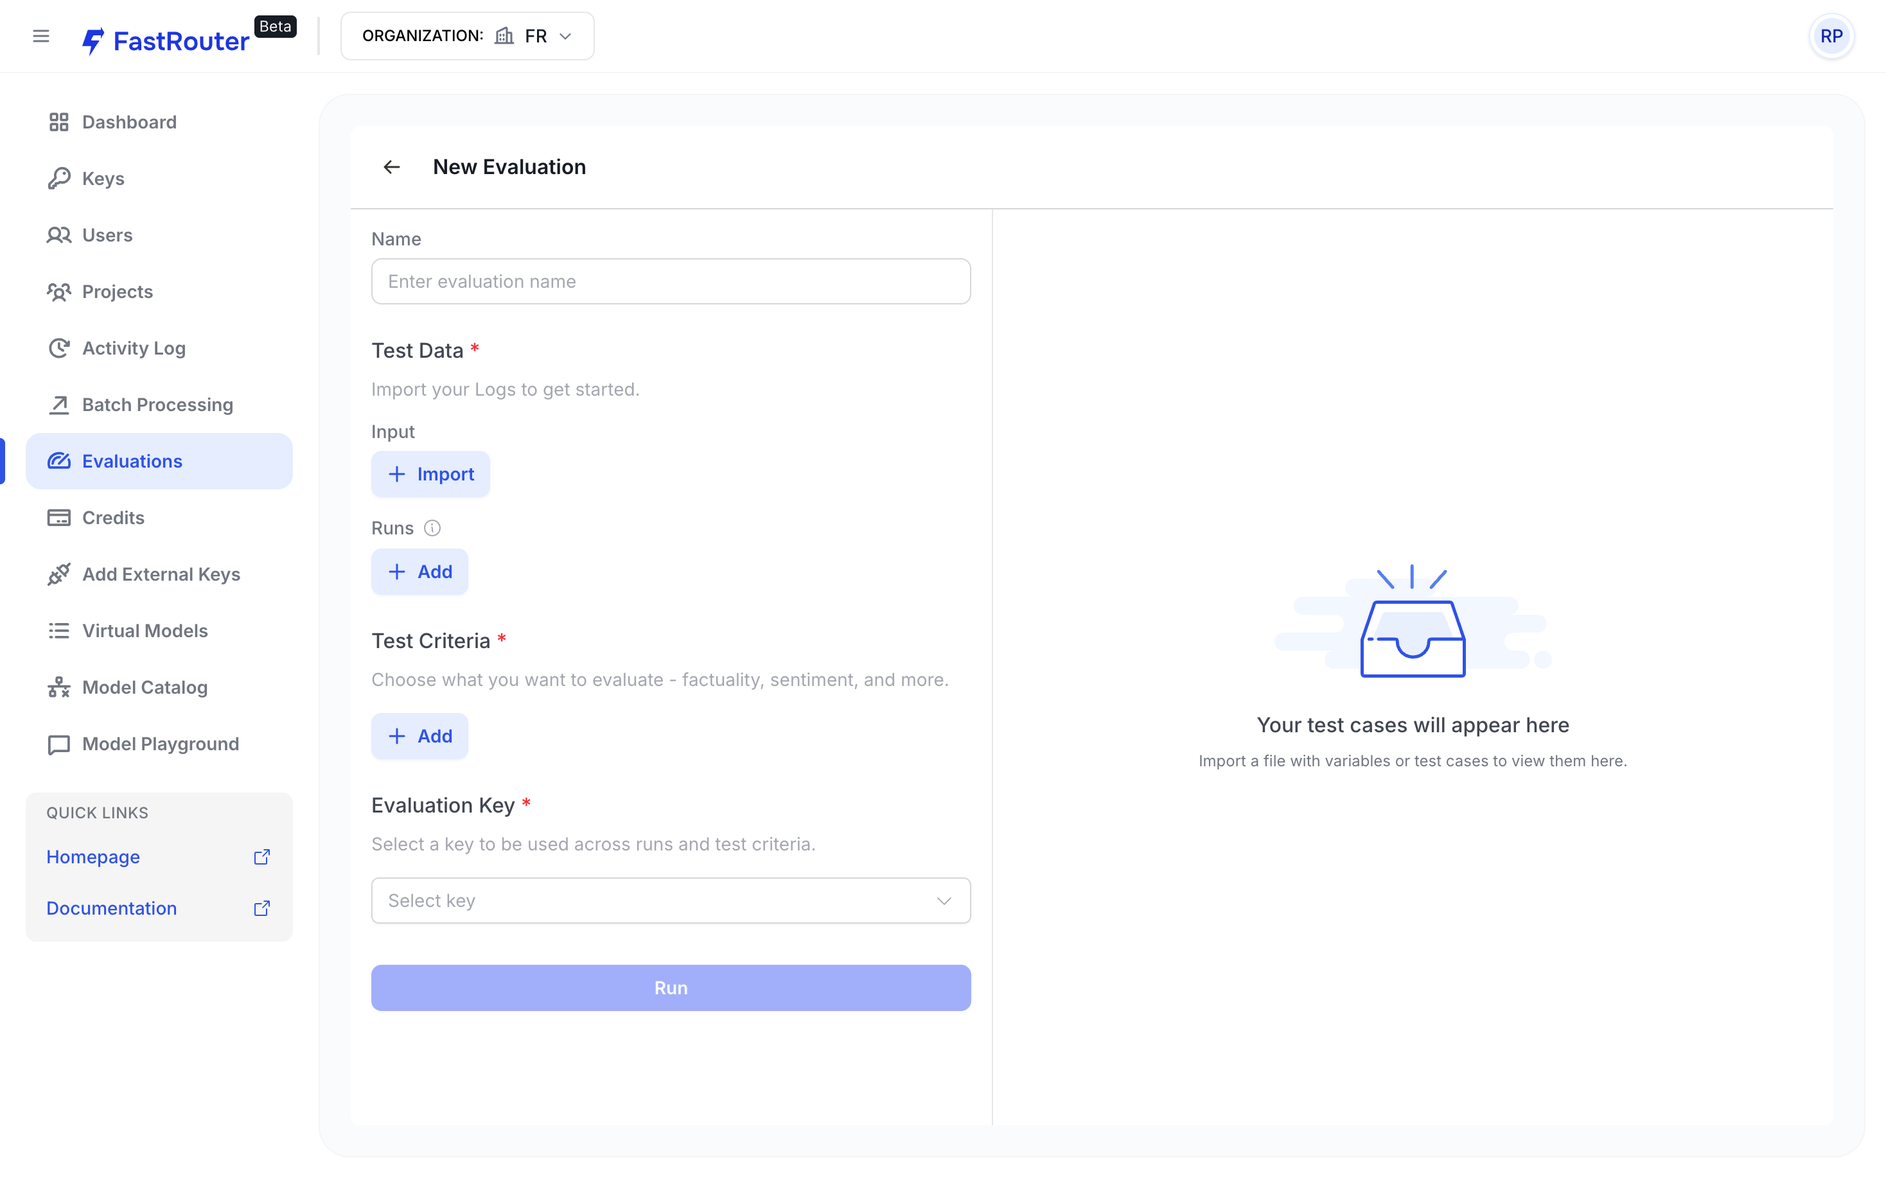
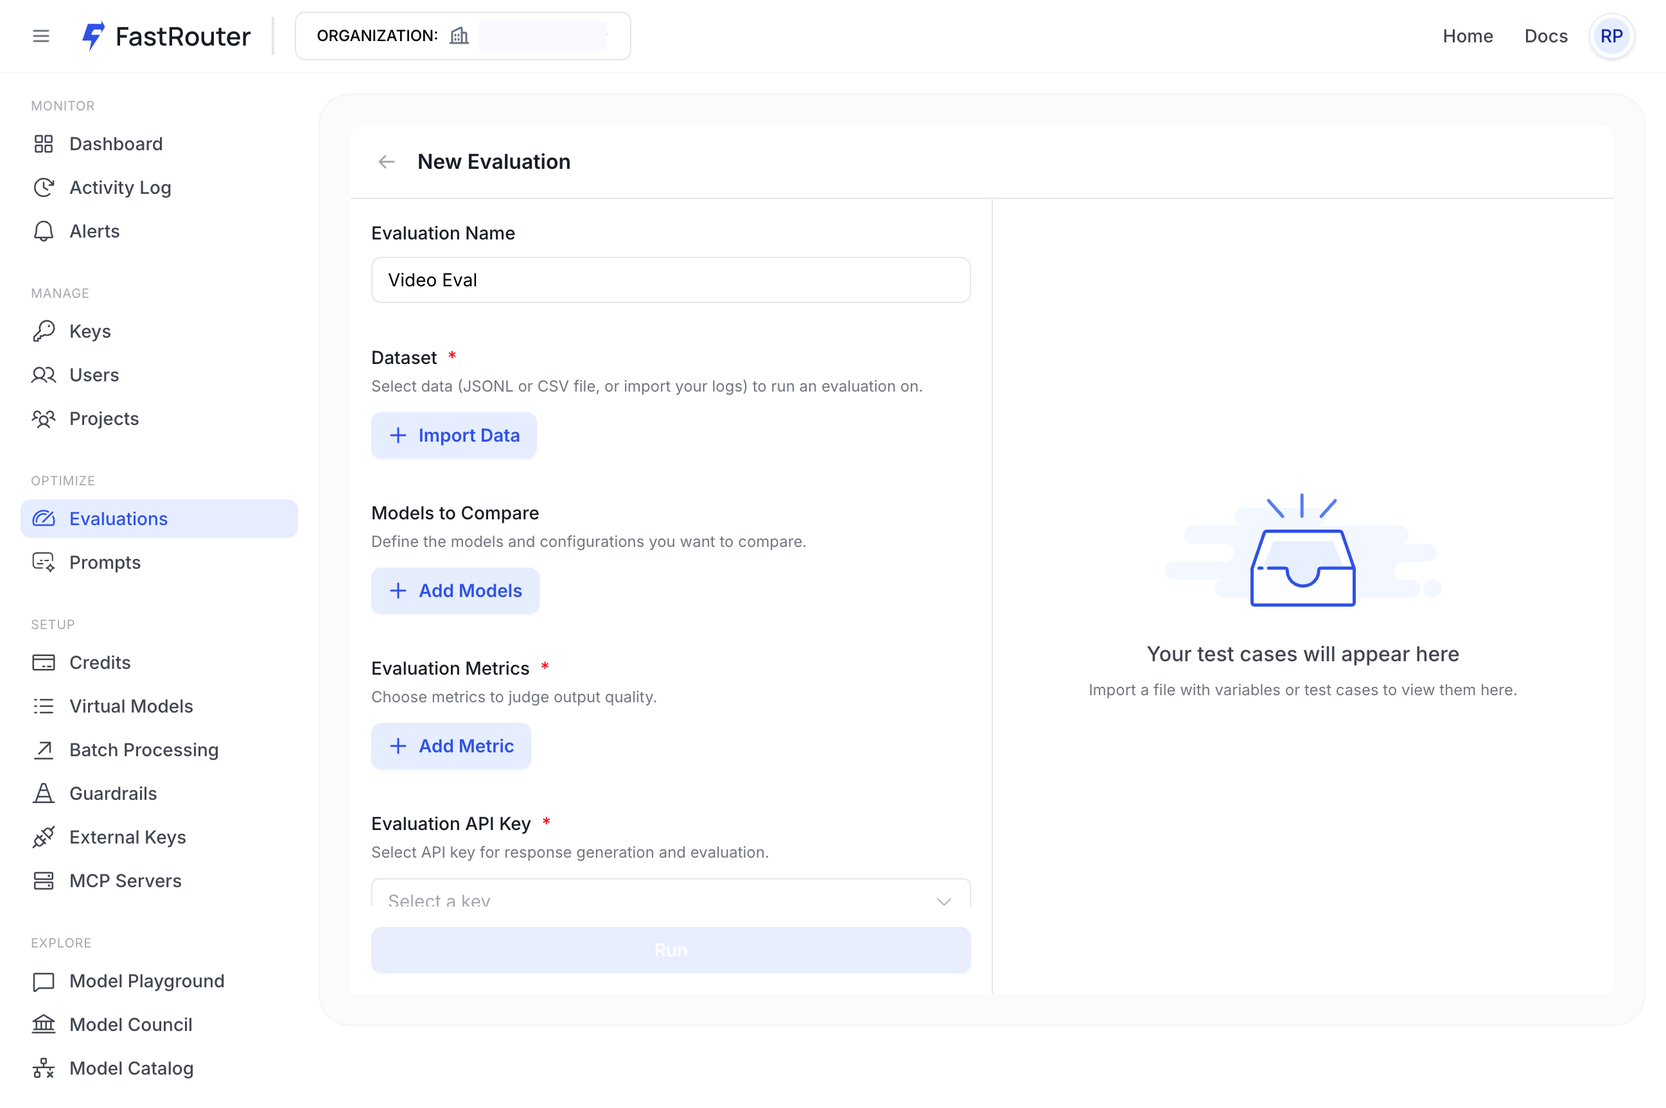
GITBOOK-279: No subject

diff --git a/explore-features/video-evaluations.md b/explore-features/video-evaluations.md
@@ -7,131 +7,186 @@ icon: video
 
 # Video Evaluations
 
-#### Introduction
+## **Introduction**
 
-FastRouter's Video Evaluations feature lets you assess the quality of AI-generated videos at scale. By importing video generation logs, defining LLM-based judging criteria, and running evaluations against those outputs, you can systematically measure video quality across dimensions like motion fidelity, audio-visual sync, cinematic quality, and adherence to the original prompt.
+FastRouter's Video Evaluations feature lets you assess the quality of AI-generated videos at scale. By importing video generation logs, defining LLM-based judging criteria, and running evaluations against those outputs, you can systematically measure video quality across dimensions like visual fidelity, scene flow, on-screen text accuracy, audio-visual sync, and adherence to the original prompt.
 
-Video Evals work within the same Custom Evaluations infrastructure as text and image evals — the same judge configuration, the same scoring rubrics, and the same results dashboard — extended to support multimodal video output.
-
-***
-
-#### Key Benefits
-
-* Evaluate AI-generated video outputs automatically using an LLM judge.
-* Import video generation logs directly from your FastRouter activity — no manual uploads required.
-* Use the same custom criteria and Auto Grader setup as text evaluations.
-* Drill down into per-video judge reasoning to understand exactly what scored well or poorly.
+Video Evals work within the same Custom Evaluations infrastructure as text and image evals; the same judge configuration, the same scoring rubrics, and the same results dashboard extended to support multimodal video output.
 
 ***
 
-#### Creating a Video Evaluation
+## **Key Benefits**
+
+* Evaluate AI-generated video outputs automatically using a multimodal LLM judge.
+* Import video generation logs directly from your FastRouter activity.
+* Use the same Auto grader and Custom grader setup as text and image evaluations.
+* Catch failures that are hard to spot at a glance: a duplicated logo, a typo in the final frame, a scene that skips a beat with per-dimension judge reasoning for every video.
+
+***
+
+## **Before You Start**
+
+Video evals run against videos you have already generated through FastRouter. You can generate them via the API, or interactively from **Model Playground** by switching to the **Video** tab and selecting a video model (e.g. `x-ai/grok-imagine-video-1.5`).
+
+<figure><img src="../.gitbook/assets/Video Playground.png" alt=""><figcaption><p>Generating a video in Model Playground</p></figcaption></figure>
+
+Video prompts are usually long and structured. The example used throughout this page:
+
+```
+Create a 8-second luxury jewelry ad for Star Diamonds, promoting a new diamond earring range.
+Elegant, cinematic, premium aesthetic with black velvet, soft champagne-gold lighting, sparkling
+highlights, and smooth transitions. Photorealistic diamonds, accurate earring symmetry, crisp
+product details, refined typography, no distorted faces or jewelry.
+
+0–2 sec: Macro shot of diamond earrings emerging from darkness, slowly rotating as light catches
+each facet. On-screen copy: "A New Light Has Arrived"
+2–4 sec: Elegant model wearing the earrings, turning her head subtly against a sophisticated
+black-and-gold background. On-screen copy: "Made to Make You Shine"
+4–6 sec: Fast, graceful montage of three distinct designs—classic studs, diamond drops, and
+contemporary hoops—each sparkling in close-up. On-screen copy: "Discover the New Earring Collection"
+6–8 sec: Hero product arrangement on black velvet, followed by the Star Diamonds logo and a soft
+diamond-flare finish. On-screen copy: "Star Diamonds" CTA: "Find Your Perfect Pair"
+
+Audio: Sophisticated cinematic shimmer with a gentle rising beat and a delicate crystal chime on
+the final logo reveal.
+```
+
+Writing the prompt as timed beats pays off twice: the generation model has a clearer target, and you can reuse the same structure as your judge's checklist.
+
+***
+
+## **Creating a Video Evaluation**
 
 Navigate to the **Evaluations** section in your FastRouter dashboard and click **Create Evaluation**.
 
-<figure><img src="../.gitbook/assets/Evaluation Dashboard.png" alt=""><figcaption><p>Custom Evaluations</p></figcaption></figure>
+<figure><img src="../.gitbook/assets/New Evaluation.png" alt=""><figcaption><p>New Evaluation</p></figcaption></figure>
 
 **Step 1 — Name Your Evaluation**
 
-Provide a descriptive name (e.g., `Video Compliance Evaluation` or `Product-Video-Quality-Check-v2`).
-
-<figure><img src="../.gitbook/assets/New Evaluation.png" alt=""><figcaption><p>Name Your Evaluation</p></figcaption></figure>
+Provide a descriptive name (e.g. `Video Eval` or `Jewellery-Ad-Compliance-v2`).
 
 **Step 2 — Import Video Logs**
 
 Click **Import Data**. In the Import Test Data dialog, select the **Videos** tab.
 
-<figure><img src="../.gitbook/assets/Import Test Data - Video.png" alt=""><figcaption></figcaption></figure>
+<figure><img src="../.gitbook/assets/Import Test Data.png" alt=""><figcaption><p>Import Test Data — Videos tab</p></figcaption></figure>
 
 Configure the following fields:
 
 * **Date Range** _(required)_: Select the date range covering the video generations you want to evaluate.
-* **Model** _(required)_: Choose the video generation model whose outputs you want to import (e.g., `google/veo3.1-lite`).
+* **Model** _(required)_: Choose the video generation model whose outputs you want to import (e.g. `x-ai/grok-imagine-video-1.5`).
 * **Project**: Optionally filter by project. Select a project to narrow the available API keys, or leave as "All Projects" to see all keys.
 * **Key**: Optionally filter by a specific API key used during generation.
-* **Input contains**: Search for specific text in the generation input to narrow down which logs are imported.
+* **Input contains**: Search for specific text in the generation prompt to narrow down which logs are imported.
 * **Sampling rate (%)**: Set a percentage of matching logs to import (1–100%). Useful for large log sets — start with a smaller sample to validate your setup before scaling.
 
 > ℹ Video file logs are available for import approximately **2 hours** after they are generated. If your recent video logs aren't showing up, try again later.
 
-Click **Import** to load the video generation logs as your evaluation dataset.
+The dialog shows a live **Total rows** count as you adjust the filters. Click **Import** to load the video generation logs as your evaluation dataset.
+
+Once imported, the dataset appears as **Imported from Video logs**, and the source model is added automatically under **Models to Compare**. The **Data (preview)** panel on the right shows each row's prompt alongside its video output.
+
+<figure><img src="../.gitbook/assets/Sample Overview.png" alt=""><figcaption><p>New Evaluation with imported video logs</p></figcaption></figure>
 
 **Step 3 — Add Evaluation Metrics**
 
-Click **Add Metric** and configure an **Auto Grader** (LLM-based judge) for your video outputs.
+Click **Add Metric** and configure your judge. Two presets are available:
 
-* **Judge Model**: Select a capable multimodal model (e.g., `gemini-3.1-flash-lite-preview`) that can process video as input.
-*   **System Prompt**: Describe the evaluator's role and scoring approach. Example:
+* **Auto grader**: a general-purpose quality judge with a ready-made rubric — good for a quick first pass.
+* **Custom grader**: your own prompt, model, and scoring scale — recommended when you have a specific brief to check the video against.
+
+<figure><img src="../.gitbook/assets/Custom Grader.png" alt=""><figcaption><p>Configuring a Custom grader</p></figcaption></figure>
+
+Configure the following:
+
+* **Model** _(required)_: Select a multimodal model that accepts video input (e.g. `google/gemini-3.1-pro-preview`). A text-only or image-only model cannot score video.
+*   **System**: Describe the evaluator's role, the dimensions to check, and how to score them. The example used here:
 
     ```
-    You are an expert AI response evaluator tasked with assessing model outputs
-    for quality and effectiveness. Evaluate video outputs across three dimensions:
-    1. Major errors, safety concerns, or failure to perform the core task.
-    2. Minor issues such as artifacts, animation inconsistencies, or audio-visual sync problems.
-    3. Suggestions for higher quality animation, better motion dynamics, and tighter sound integration.
+    You are a video evaluator. Watch the video and check if it matches these requirements:
+    1. Visual Quality: Is it a luxury jewelry ad with black velvet, gold lighting, and symmetrical,
+       distortion-free diamonds?
+    2. Scene Flow: Does it progress smoothly from a macro shot, to a model, to a product montage,
+       and end on a hero product layout?
+    3. Text & Typo Check: Read all on-screen text. Check for any typos, spelling mistakes, or
+       grammatically incorrect copy.
+    Score from 1 - 7. Give an overall fail score of 2 or below if any of the requirements fails to
+    meet the standard.
     ```
-* **Scoring**: Define a numeric scale (e.g., 0–10) or pass/fail threshold. The judge will return both a score and structured reasoning per dimension.
-* **Variables**: Reference the video output in your judge prompt using `{{sample.output}}`. Use `{{item.input}}` to pass the original generation prompt to the judge for context.
+* **Variables**: Use `{{curly braces}}` to interpolate values into your prompt. `{{item.input}}` passes the original generation prompt to the judge, which is what you need for prompt-adherence checks. The generated video itself is attached to the judge call automatically. The valid variable list is shown under each prompt box.
+* **User** _(required)_: The user-turn template sent to the judge, typically the user input placeholder followed by the response to evaluate.
+* **Scoring**: Define the numeric **Range** (e.g. `0–7`) and a **Pass Threshold** (e.g. `3.5`). Rows scoring at or above the threshold are marked Pass; everything below is Fail.
 
 **Step 4 — Select Evaluation API Key**
 
-Choose an API key from your account. This key will be used for all LLM judge calls during the evaluation.
+Choose an API key from your account. This key is used for all LLM judge calls during the evaluation.
 
-**Step 4 — Run**
+**Step 5 — Run**
 
-Click **Run** to start the evaluation. FastRouter will apply your judge asynchronously to each video in the dataset and return scored results.
+Click **Run**. FastRouter first shows a **Credit Utilization Estimate** with the number of selected requests, the estimated cost, and your current balance.
 
-<figure><img src="../.gitbook/assets/Import Preview.png" alt=""><figcaption></figcaption></figure>
+Click **Proceed with Evaluation** to start the run. The judge is applied asynchronously to each video in the dataset and results are returned as they complete.
+
+> ℹ The estimate is based on the selected judge model and an average prompt size — actual costs vary with clip length and resolution. If credits run out mid-run, the evaluation may not complete.
 
 ***
 
-#### Viewing Results
+## **Viewing Results**
 
-Access results from the **Evaluations** listing page by clicking your evaluation.
+Access results from the **Evaluations** listing page by clicking your evaluation. Use the **Report** / **Data** toggle in the top right to switch views.
 
-* **Data view**: See each video row with its generation input, a video preview thumbnail, Auto Grader score, latency, and cost.
-*
+**Report view** — Aggregated metrics across all rows: the run and its Request ID, latency percentiles, generation cost, and the overall score for each grader. The **Test Criteria** panel below shows the judge prompt, its range and pass threshold, the judge model, and the total judge spend for the run.
 
-```
-<figure><img src=".gitbook/assets/Content Preview.png" alt=""><figcaption><p>Content Preview</p></figcaption></figure>
-```
+<figure><img src="../.gitbook/assets/Report Details.png" alt=""><figcaption><p>Report Details</p></figcaption></figure>
 
-* **Report view**: Aggregated metrics across all rows — average score, pass rate, latency distribution, and cost.
+> ℹ Latency shows **N/A** for imported video generations. Video models generate asynchronously, so per-request latency isn't captured the way it is for chat or image runs — use cost and score to compare video models.
 
-<figure><img src="../.gitbook/assets/Run Details.png" alt=""><figcaption><p>Report Details</p></figcaption></figure>
+**Data view** — One row per video with its generation input on the left and the graded output on the right, including the score, cost, and a video attachment. Use **Single View** to inspect one run. Search, sort, and fullscreen controls help with larger datasets.
 
-* **Judge Reasoning**: Click any individual row score to expand the full LLM judge reasoning — broken down by evaluation dimension (e.g., safety check → minor issues → improvement suggestions).
+<figure><img src="../.gitbook/assets/Sample Overview (1).png" alt=""><figcaption><p>Runs Overview — Data view</p></figcaption></figure>
 
-<figure><img src="../.gitbook/assets/Judge Feedback.png" alt=""><figcaption><p>Judge Feedback</p></figcaption></figure>
+**Content Preview** — Click the expand arrow on any row to open an inline video player next to the full input parameters, with the grader verdict and cost alongside. Play the clip here to check the judge's call yourself.
 
-**Example output for a tiger image-to-video eval (google/veo3.1-lite):**
+<figure><img src="../.gitbook/assets/Content Preview.png" alt=""><figcaption><p>Content Preview</p></figcaption></figure>
 
-| Metric            | Value          |
-| ----------------- | -------------- |
-| Auto Grader Score | Pass: 5.5 / 10 |
-| Latency           | 1,115 ms       |
-| Cost              | μ$400,000      |
-| Video Length      | 8 seconds      |
+**Judge Reasoning** — Click the score to open **Criteria Results** and see the judge's per-dimension breakdown, along with the grader configuration that produced it.
+
+<figure><img src="../.gitbook/assets/Judge Reasoning.png" alt=""><figcaption><p>Judge Feedback</p></figcaption></figure>
+
+**Example output for the Star Diamonds ad eval (`x-ai/grok-imagine-video-1.5`):**
+
+| Metric                   | Value                                                                                                                        |
+| ------------------------ | ---------------------------------------------------------------------------------------------------------------------------- |
+| Custom Grader            | Fail: 2 (Range 0–7, Pass ≥ 3.5)                                                                                              |
+| Latency                  | N/A                                                                                                                          |
+| Original Generation Cost | μ$1,120,000.0000 ($1.12). **Note:** This cost is only incurred during the original generation and not during the evaluation. |
+| Total Judge Score Cost   | $0.0220                                                                                                                      |
+| Pass Rate                | 0%                                                                                                                           |
+| Video Length             | 8 seconds (720p, 16:9, audio on)                                                                                             |
 
 Judge reasoning summary:
 
-1. **Major errors / safety**: None identified.
-2. **Minor issues**: Animation was extremely subtle (near-static); audio present but not closely synchronized with the visual action.
-3. **Improvements**: Increase motion complexity (eye blinking, ear movement, water ripples); tighten audio-visual sync to specific visual moments.
+1. **Visual Quality** — Has the intended luxury aesthetic with velvet and gold lighting, but fails the distortion check due to visual artifacts overlapping the model's face.
+2. **Scene Flow** — Passes. Follows the intended sequence from macro shot to model to montage to hero arrangement.
+3. **Text Check** — Mostly spelled correctly, but fails due to poorly formatted and duplicated "Star Diamonds" text in the final scene.
+
+Two of three dimensions failed, and the rubric instructed the judge to cap the overall score at 2 whenever any requirement misses the standard; so the row is marked **Fail** even though scene flow was clean.
 
 ***
 
-#### Tips & Best Practices
+## **Tips & Best Practices**
 
-* **Start with a small sample**: Use the sampling rate slider to import 10–20% of your logs first. Validate your judge prompt on a handful of videos before scaling to your full dataset.
-* **Use a capable judge model**: Video evaluation requires a multimodal LLM that can process video frames. Choose models that support video input explicitly.
-* **Be specific in your rubric**: Vague judge prompts produce inconsistent scores. Break your evaluation into named dimensions (e.g., motion quality, prompt adherence, audio sync) and score each separately.
+* **Start with a small sample**: Use the sampling rate slider to import 10–20% of your logs first. Validate your judge prompt on a handful of videos before scaling to the full dataset.
+* **Use a capable multimodal judge**: Video evaluation requires a model that can process video frames and audio. Choose models that support video input explicitly.
+* **Mirror your prompt structure in your rubric**: If the generation prompt is written as timed beats, make the judge check those same beats. Named dimensions (visual quality, scene flow, text accuracy) produce far more consistent scores than a single open-ended quality question.
+* **Ask the judge to read on-screen text**: Typos, duplicated logos, and malformed CTAs in the final frame are the most common — and most embarrassing — failures in generated ad content, and they are easy to miss on a first watch.
+* **Be deliberate with harsh aggregation rules**: "Fail the whole video if any requirement misses" is the right call for a compliance gate but collapses pass rates to 0%. For tracking quality over time, prefer an average across dimensions so you can see movement between runs.
 * **Allow 2 hours post-generation**: Video logs take approximately 2 hours to become available for import. Plan your eval runs accordingly.
-* **Monitor costs**: Video judge calls can be more expensive than text, especially with longer clips. Start with shorter videos and efficient judge models.
 
 ***
 
-#### Relationship to Custom Evaluations
+## **Relationship to Custom Evaluations**
 
-Video Evals are an extension of FastRouter's [Custom Evaluations](https://claude.ai/chat/custom-evaluations.md) feature. The same infrastructure — dataset management, run comparison, judge configuration, and results dashboard — applies to both. The key difference is the data source: instead of importing chat completion logs or CSV files, you import video generation logs via the **Videos** tab in the Import Test Data dialog.
+Video Evals are an extension of FastRouter's [Custom Evaluations](custom-evaluations.md) feature. The same infrastructure — dataset management, run comparison, judge configuration, and results dashboard — applies to both. The key difference is the data source: instead of importing chat completion logs or CSV files, you import video generation logs via the **Videos** tab in the Import Test Data dialog.
 
 All judge configuration options available for text evals (scoring rubrics, variable interpolation, multi-criteria graders) are fully supported for video evals.

diff --git a/explore-features/custom-evaluations.md b/explore-features/custom-evaluations.md
@@ -31,7 +31,7 @@ Evaluations are managed through the FastRouter dashboard, where you can create, 
 
 To start, navigate to the "Evaluations" section in your FastRouter dashboard and click "New Evaluation."
 
-<figure><img src="../.gitbook/assets/New Evaluation (1).png" alt=""><figcaption><p>Custom Evaluations: Create Evaluation</p></figcaption></figure>
+<figure><img src="../.gitbook/assets/New Evaluation (1) (1).png" alt=""><figcaption><p>Custom Evaluations: Create Evaluation</p></figcaption></figure>
 
 1. **Name Your Evaluation:** Provide a descriptive name (e.g., "Math Query Benchmark").
 2. **Import Test Data:** Upload or import chat completion logs or datasets. You can:
@@ -40,7 +40,7 @@ To start, navigate to the "Evaluations" section in your FastRouter dashboard and
    * Choose input/output text to filter rows.
    * Set a sample size (e.g., 10%) to evaluate a subset of your data for efficiency.
 
-<figure><img src="../.gitbook/assets/Import Test Data.png" alt=""><figcaption><p>Custom Evaluations: Import Test Data</p></figcaption></figure>
+<figure><img src="../.gitbook/assets/Import Test Data (1).png" alt=""><figcaption><p>Custom Evaluations: Import Test Data</p></figcaption></figure>
 
 3. **Add Runs:** Select model runs to generate outputs (e.g., "anthropic/claude-4.5"). You can add multiple runs for side-by-side comparison.
 
@@ -85,7 +85,7 @@ Once the evaluation is complete, access the results of a particular custom evalu
 
 * **Judge Reasoning:** For each test criterion and score, you can drill down into the individual responses for details of the judge reasoning.
 
-<figure><img src="../.gitbook/assets/Judge Reasoning.png" alt=""><figcaption><p>Custom Evaluations: Judge Reasoning</p></figcaption></figure>
+<figure><img src="../.gitbook/assets/Judge Reasoning (1).png" alt=""><figcaption><p>Custom Evaluations: Judge Reasoning</p></figcaption></figure>
 
 ***
 
